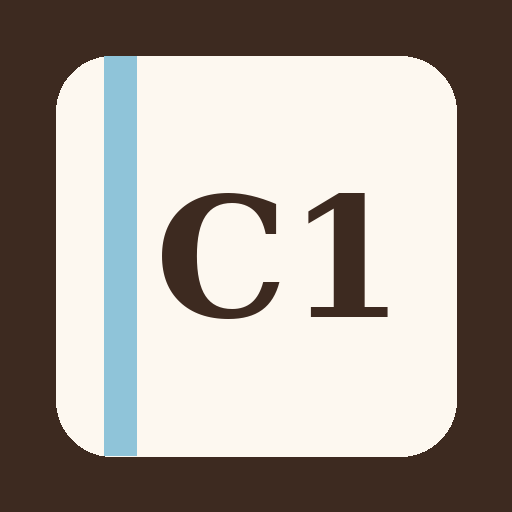
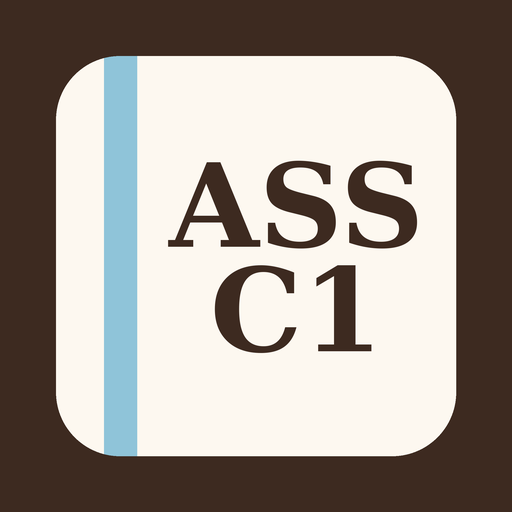
Icono de la app: «ASS» en la primera línea y «C1» en la segunda
Se rehacen los iconos de la PWA (192, 512, maskable y apple-touch). sw v21.

Claude-Session: https://claude.ai/code/session_017dgNZ1zZF1R8QgGLbuyND3

diff --git a/sw.js b/sw.js
@@ -2,7 +2,7 @@
 // dar de alta un supuesto ahí basta para que funcione sin conexión. Si ese archivo cambia,
 // el navegador detecta una versión nueva de este service worker por sí solo.
 importScripts("supuestos-datos.js");
-const VERSION = "v20";
+const VERSION = "v21";
 const CACHE = "supuestos-c1-" + VERSION;
 const PRECACHE_BASE = [
   "./",
